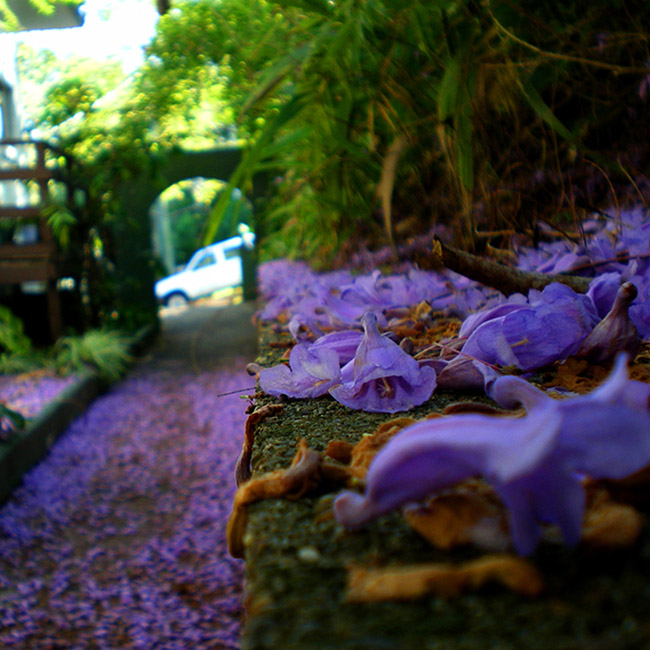
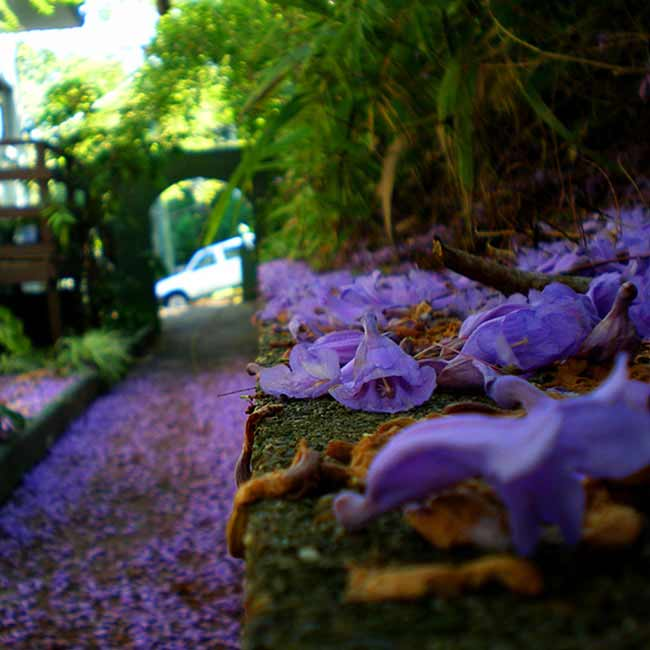
optimised all images to their smallest possible sizes just before the point of noticable degradation

diff --git a/js/modernizr.js b/js/modernizr.js
@@ -1,4 +1,4 @@
 /* Modernizr 2.6.2 (Custom Build) | MIT & BSD
- * Build: http://modernizr.com/download/#-fontface-backgroundsize-opacity-rgba-generatedcontent-cssgradients-csstransforms-csstransitions-canvas-shiv-cssclasses-teststyles-testprop-testallprops-prefixes-domprefixes-load
+ * Build: http://modernizr.com/download/#-fontface-backgroundsize-borderradius-boxshadow-opacity-cssanimations-csstransforms-csstransitions-canvas-shiv-cssclasses-teststyles-testprop-testallprops-prefixes-domprefixes-load
  */
-;window.Modernizr=function(a,b,c){function A(a){j.cssText=a}function B(a,b){return A(n.join(a+";")+(b||""))}function C(a,b){return typeof a===b}function D(a,b){return!!~(""+a).indexOf(b)}function E(a,b){for(var d in a){var e=a[d];if(!D(e,"-")&&j[e]!==c)return b=="pfx"?e:!0}return!1}function F(a,b,d){for(var e in a){var f=b[a[e]];if(f!==c)return d===!1?a[e]:C(f,"function")?f.bind(d||b):f}return!1}function G(a,b,c){var d=a.charAt(0).toUpperCase()+a.slice(1),e=(a+" "+p.join(d+" ")+d).split(" ");return C(b,"string")||C(b,"undefined")?E(e,b):(e=(a+" "+q.join(d+" ")+d).split(" "),F(e,b,c))}var d="2.6.2",e={},f=!0,g=b.documentElement,h="modernizr",i=b.createElement(h),j=i.style,k,l=":)",m={}.toString,n=" -webkit- -moz- -o- -ms- ".split(" "),o="Webkit Moz O ms",p=o.split(" "),q=o.toLowerCase().split(" "),r={},s={},t={},u=[],v=u.slice,w,x=function(a,c,d,e){var f,i,j,k,l=b.createElement("div"),m=b.body,n=m||b.createElement("body");if(parseInt(d,10))while(d--)j=b.createElement("div"),j.id=e?e[d]:h+(d+1),l.appendChild(j);return f=["&#173;",'<style id="s',h,'">',a,"</style>"].join(""),l.id=h,(m?l:n).innerHTML+=f,n.appendChild(l),m||(n.style.background="",n.style.overflow="hidden",k=g.style.overflow,g.style.overflow="hidden",g.appendChild(n)),i=c(l,a),m?l.parentNode.removeChild(l):(n.parentNode.removeChild(n),g.style.overflow=k),!!i},y={}.hasOwnProperty,z;!C(y,"undefined")&&!C(y.call,"undefined")?z=function(a,b){return y.call(a,b)}:z=function(a,b){return b in a&&C(a.constructor.prototype[b],"undefined")},Function.prototype.bind||(Function.prototype.bind=function(b){var c=this;if(typeof c!="function")throw new TypeError;var d=v.call(arguments,1),e=function(){if(this instanceof e){var a=function(){};a.prototype=c.prototype;var f=new a,g=c.apply(f,d.concat(v.call(arguments)));return Object(g)===g?g:f}return c.apply(b,d.concat(v.call(arguments)))};return e}),r.canvas=function(){var a=b.createElement("canvas");return!!a.getContext&&!!a.getContext("2d")},r.rgba=function(){return A("background-color:rgba(150,255,150,.5)"),D(j.backgroundColor,"rgba")},r.backgroundsize=function(){return G("backgroundSize")},r.opacity=function(){return B("opacity:.55"),/^0.55$/.test(j.opacity)},r.cssgradients=function(){var a="background-image:",b="gradient(linear,left top,right bottom,from(#9f9),to(white));",c="linear-gradient(left top,#9f9, white);";return A((a+"-webkit- ".split(" ").join(b+a)+n.join(c+a)).slice(0,-a.length)),D(j.backgroundImage,"gradient")},r.csstransforms=function(){return!!G("transform")},r.csstransitions=function(){return G("transition")},r.fontface=function(){var a;return x('@font-face {font-family:"font";src:url("https://")}',function(c,d){var e=b.getElementById("smodernizr"),f=e.sheet||e.styleSheet,g=f?f.cssRules&&f.cssRules[0]?f.cssRules[0].cssText:f.cssText||"":"";a=/src/i.test(g)&&g.indexOf(d.split(" ")[0])===0}),a},r.generatedcontent=function(){var a;return x(["#",h,"{font:0/0 a}#",h,':after{content:"',l,'";visibility:hidden;font:3px/1 a}'].join(""),function(b){a=b.offsetHeight>=3}),a};for(var H in r)z(r,H)&&(w=H.toLowerCase(),e[w]=r[H](),u.push((e[w]?"":"no-")+w));return e.addTest=function(a,b){if(typeof a=="object")for(var d in a)z(a,d)&&e.addTest(d,a[d]);else{a=a.toLowerCase();if(e[a]!==c)return e;b=typeof b=="function"?b():b,typeof f!="undefined"&&f&&(g.className+=" "+(b?"":"no-")+a),e[a]=b}return e},A(""),i=k=null,function(a,b){function k(a,b){var c=a.createElement("p"),d=a.getElementsByTagName("head")[0]||a.documentElement;return c.innerHTML="x<style>"+b+"</style>",d.insertBefore(c.lastChild,d.firstChild)}function l(){var a=r.elements;return typeof a=="string"?a.split(" "):a}function m(a){var b=i[a[g]];return b||(b={},h++,a[g]=h,i[h]=b),b}function n(a,c,f){c||(c=b);if(j)return c.createElement(a);f||(f=m(c));var g;return f.cache[a]?g=f.cache[a].cloneNode():e.test(a)?g=(f.cache[a]=f.createElem(a)).cloneNode():g=f.createElem(a),g.canHaveChildren&&!d.test(a)?f.frag.appendChild(g):g}function o(a,c){a||(a=b);if(j)return a.createDocumentFragment();c=c||m(a);var d=c.frag.cloneNode(),e=0,f=l(),g=f.length;for(;e<g;e++)d.createElement(f[e]);return d}function p(a,b){b.cache||(b.cache={},b.createElem=a.createElement,b.createFrag=a.createDocumentFragment,b.frag=b.createFrag()),a.createElement=function(c){return r.shivMethods?n(c,a,b):b.createElem(c)},a.createDocumentFragment=Function("h,f","return function(){var n=f.cloneNode(),c=n.createElement;h.shivMethods&&("+l().join().replace(/\w+/g,function(a){return b.createElem(a),b.frag.createElement(a),'c("'+a+'")'})+");return n}")(r,b.frag)}function q(a){a||(a=b);var c=m(a);return r.shivCSS&&!f&&!c.hasCSS&&(c.hasCSS=!!k(a,"article,aside,figcaption,figure,footer,header,hgroup,nav,section{display:block}mark{background:#FF0;color:#000}")),j||p(a,c),a}var c=a.html5||{},d=/^<|^(?:button|map|select|textarea|object|iframe|option|optgroup)$/i,e=/^(?:a|b|code|div|fieldset|h1|h2|h3|h4|h5|h6|i|label|li|ol|p|q|span|strong|style|table|tbody|td|th|tr|ul)$/i,f,g="_html5shiv",h=0,i={},j;(function(){try{var a=b.createElement("a");a.innerHTML="<xyz></xyz>",f="hidden"in a,j=a.childNodes.length==1||function(){b.createElement("a");var a=b.createDocumentFragment();return typeof a.cloneNode=="undefined"||typeof a.createDocumentFragment=="undefined"||typeof a.createElement=="undefined"}()}catch(c){f=!0,j=!0}})();var r={elements:c.elements||"abbr article aside audio bdi canvas data datalist details figcaption figure footer header hgroup mark meter nav output progress section summary time video",shivCSS:c.shivCSS!==!1,supportsUnknownElements:j,shivMethods:c.shivMethods!==!1,type:"default",shivDocument:q,createElement:n,createDocumentFragment:o};a.html5=r,q(b)}(this,b),e._version=d,e._prefixes=n,e._domPrefixes=q,e._cssomPrefixes=p,e.testProp=function(a){return E([a])},e.testAllProps=G,e.testStyles=x,g.className=g.className.replace(/(^|\s)no-js(\s|$)/,"$1$2")+(f?" js "+u.join(" "):""),e}(this,this.document),function(a,b,c){function d(a){return"[object Function]"==o.call(a)}function e(a){return"string"==typeof a}function f(){}function g(a){return!a||"loaded"==a||"complete"==a||"uninitialized"==a}function h(){var a=p.shift();q=1,a?a.t?m(function(){("c"==a.t?B.injectCss:B.injectJs)(a.s,0,a.a,a.x,a.e,1)},0):(a(),h()):q=0}function i(a,c,d,e,f,i,j){function k(b){if(!o&&g(l.readyState)&&(u.r=o=1,!q&&h(),l.onload=l.onreadystatechange=null,b)){"img"!=a&&m(function(){t.removeChild(l)},50);for(var d in y[c])y[c].hasOwnProperty(d)&&y[c][d].onload()}}var j=j||B.errorTimeout,l=b.createElement(a),o=0,r=0,u={t:d,s:c,e:f,a:i,x:j};1===y[c]&&(r=1,y[c]=[]),"object"==a?l.data=c:(l.src=c,l.type=a),l.width=l.height="0",l.onerror=l.onload=l.onreadystatechange=function(){k.call(this,r)},p.splice(e,0,u),"img"!=a&&(r||2===y[c]?(t.insertBefore(l,s?null:n),m(k,j)):y[c].push(l))}function j(a,b,c,d,f){return q=0,b=b||"j",e(a)?i("c"==b?v:u,a,b,this.i++,c,d,f):(p.splice(this.i++,0,a),1==p.length&&h()),this}function k(){var a=B;return a.loader={load:j,i:0},a}var l=b.documentElement,m=a.setTimeout,n=b.getElementsByTagName("script")[0],o={}.toString,p=[],q=0,r="MozAppearance"in l.style,s=r&&!!b.createRange().compareNode,t=s?l:n.parentNode,l=a.opera&&"[object Opera]"==o.call(a.opera),l=!!b.attachEvent&&!l,u=r?"object":l?"script":"img",v=l?"script":u,w=Array.isArray||function(a){return"[object Array]"==o.call(a)},x=[],y={},z={timeout:function(a,b){return b.length&&(a.timeout=b[0]),a}},A,B;B=function(a){function b(a){var a=a.split("!"),b=x.length,c=a.pop(),d=a.length,c={url:c,origUrl:c,prefixes:a},e,f,g;for(f=0;f<d;f++)g=a[f].split("="),(e=z[g.shift()])&&(c=e(c,g));for(f=0;f<b;f++)c=x[f](c);return c}function g(a,e,f,g,h){var i=b(a),j=i.autoCallback;i.url.split(".").pop().split("?").shift(),i.bypass||(e&&(e=d(e)?e:e[a]||e[g]||e[a.split("/").pop().split("?")[0]]),i.instead?i.instead(a,e,f,g,h):(y[i.url]?i.noexec=!0:y[i.url]=1,f.load(i.url,i.forceCSS||!i.forceJS&&"css"==i.url.split(".").pop().split("?").shift()?"c":c,i.noexec,i.attrs,i.timeout),(d(e)||d(j))&&f.load(function(){k(),e&&e(i.origUrl,h,g),j&&j(i.origUrl,h,g),y[i.url]=2})))}function h(a,b){function c(a,c){if(a){if(e(a))c||(j=function(){var a=[].slice.call(arguments);k.apply(this,a),l()}),g(a,j,b,0,h);else if(Object(a)===a)for(n in m=function(){var b=0,c;for(c in a)a.hasOwnProperty(c)&&b++;return b}(),a)a.hasOwnProperty(n)&&(!c&&!--m&&(d(j)?j=function(){var a=[].slice.call(arguments);k.apply(this,a),l()}:j[n]=function(a){return function(){var b=[].slice.call(arguments);a&&a.apply(this,b),l()}}(k[n])),g(a[n],j,b,n,h))}else!c&&l()}var h=!!a.test,i=a.load||a.both,j=a.callback||f,k=j,l=a.complete||f,m,n;c(h?a.yep:a.nope,!!i),i&&c(i)}var i,j,l=this.yepnope.loader;if(e(a))g(a,0,l,0);else if(w(a))for(i=0;i<a.length;i++)j=a[i],e(j)?g(j,0,l,0):w(j)?B(j):Object(j)===j&&h(j,l);else Object(a)===a&&h(a,l)},B.addPrefix=function(a,b){z[a]=b},B.addFilter=function(a){x.push(a)},B.errorTimeout=1e4,null==b.readyState&&b.addEventListener&&(b.readyState="loading",b.addEventListener("DOMContentLoaded",A=function(){b.removeEventListener("DOMContentLoaded",A,0),b.readyState="complete"},0)),a.yepnope=k(),a.yepnope.executeStack=h,a.yepnope.injectJs=function(a,c,d,e,i,j){var k=b.createElement("script"),l,o,e=e||B.errorTimeout;k.src=a;for(o in d)k.setAttribute(o,d[o]);c=j?h:c||f,k.onreadystatechange=k.onload=function(){!l&&g(k.readyState)&&(l=1,c(),k.onload=k.onreadystatechange=null)},m(function(){l||(l=1,c(1))},e),i?k.onload():n.parentNode.insertBefore(k,n)},a.yepnope.injectCss=function(a,c,d,e,g,i){var e=b.createElement("link"),j,c=i?h:c||f;e.href=a,e.rel="stylesheet",e.type="text/css";for(j in d)e.setAttribute(j,d[j]);g||(n.parentNode.insertBefore(e,n),m(c,0))}}(this,document),Modernizr.load=function(){yepnope.apply(window,[].slice.call(arguments,0))};
+;window.Modernizr=function(a,b,c){function z(a){j.cssText=a}function A(a,b){return z(m.join(a+";")+(b||""))}function B(a,b){return typeof a===b}function C(a,b){return!!~(""+a).indexOf(b)}function D(a,b){for(var d in a){var e=a[d];if(!C(e,"-")&&j[e]!==c)return b=="pfx"?e:!0}return!1}function E(a,b,d){for(var e in a){var f=b[a[e]];if(f!==c)return d===!1?a[e]:B(f,"function")?f.bind(d||b):f}return!1}function F(a,b,c){var d=a.charAt(0).toUpperCase()+a.slice(1),e=(a+" "+o.join(d+" ")+d).split(" ");return B(b,"string")||B(b,"undefined")?D(e,b):(e=(a+" "+p.join(d+" ")+d).split(" "),E(e,b,c))}var d="2.6.2",e={},f=!0,g=b.documentElement,h="modernizr",i=b.createElement(h),j=i.style,k,l={}.toString,m=" -webkit- -moz- -o- -ms- ".split(" "),n="Webkit Moz O ms",o=n.split(" "),p=n.toLowerCase().split(" "),q={},r={},s={},t=[],u=t.slice,v,w=function(a,c,d,e){var f,i,j,k,l=b.createElement("div"),m=b.body,n=m||b.createElement("body");if(parseInt(d,10))while(d--)j=b.createElement("div"),j.id=e?e[d]:h+(d+1),l.appendChild(j);return f=["&#173;",'<style id="s',h,'">',a,"</style>"].join(""),l.id=h,(m?l:n).innerHTML+=f,n.appendChild(l),m||(n.style.background="",n.style.overflow="hidden",k=g.style.overflow,g.style.overflow="hidden",g.appendChild(n)),i=c(l,a),m?l.parentNode.removeChild(l):(n.parentNode.removeChild(n),g.style.overflow=k),!!i},x={}.hasOwnProperty,y;!B(x,"undefined")&&!B(x.call,"undefined")?y=function(a,b){return x.call(a,b)}:y=function(a,b){return b in a&&B(a.constructor.prototype[b],"undefined")},Function.prototype.bind||(Function.prototype.bind=function(b){var c=this;if(typeof c!="function")throw new TypeError;var d=u.call(arguments,1),e=function(){if(this instanceof e){var a=function(){};a.prototype=c.prototype;var f=new a,g=c.apply(f,d.concat(u.call(arguments)));return Object(g)===g?g:f}return c.apply(b,d.concat(u.call(arguments)))};return e}),q.canvas=function(){var a=b.createElement("canvas");return!!a.getContext&&!!a.getContext("2d")},q.backgroundsize=function(){return F("backgroundSize")},q.borderradius=function(){return F("borderRadius")},q.boxshadow=function(){return F("boxShadow")},q.opacity=function(){return A("opacity:.55"),/^0.55$/.test(j.opacity)},q.cssanimations=function(){return F("animationName")},q.csstransforms=function(){return!!F("transform")},q.csstransitions=function(){return F("transition")},q.fontface=function(){var a;return w('@font-face {font-family:"font";src:url("https://")}',function(c,d){var e=b.getElementById("smodernizr"),f=e.sheet||e.styleSheet,g=f?f.cssRules&&f.cssRules[0]?f.cssRules[0].cssText:f.cssText||"":"";a=/src/i.test(g)&&g.indexOf(d.split(" ")[0])===0}),a};for(var G in q)y(q,G)&&(v=G.toLowerCase(),e[v]=q[G](),t.push((e[v]?"":"no-")+v));return e.addTest=function(a,b){if(typeof a=="object")for(var d in a)y(a,d)&&e.addTest(d,a[d]);else{a=a.toLowerCase();if(e[a]!==c)return e;b=typeof b=="function"?b():b,typeof f!="undefined"&&f&&(g.className+=" "+(b?"":"no-")+a),e[a]=b}return e},z(""),i=k=null,function(a,b){function k(a,b){var c=a.createElement("p"),d=a.getElementsByTagName("head")[0]||a.documentElement;return c.innerHTML="x<style>"+b+"</style>",d.insertBefore(c.lastChild,d.firstChild)}function l(){var a=r.elements;return typeof a=="string"?a.split(" "):a}function m(a){var b=i[a[g]];return b||(b={},h++,a[g]=h,i[h]=b),b}function n(a,c,f){c||(c=b);if(j)return c.createElement(a);f||(f=m(c));var g;return f.cache[a]?g=f.cache[a].cloneNode():e.test(a)?g=(f.cache[a]=f.createElem(a)).cloneNode():g=f.createElem(a),g.canHaveChildren&&!d.test(a)?f.frag.appendChild(g):g}function o(a,c){a||(a=b);if(j)return a.createDocumentFragment();c=c||m(a);var d=c.frag.cloneNode(),e=0,f=l(),g=f.length;for(;e<g;e++)d.createElement(f[e]);return d}function p(a,b){b.cache||(b.cache={},b.createElem=a.createElement,b.createFrag=a.createDocumentFragment,b.frag=b.createFrag()),a.createElement=function(c){return r.shivMethods?n(c,a,b):b.createElem(c)},a.createDocumentFragment=Function("h,f","return function(){var n=f.cloneNode(),c=n.createElement;h.shivMethods&&("+l().join().replace(/\w+/g,function(a){return b.createElem(a),b.frag.createElement(a),'c("'+a+'")'})+");return n}")(r,b.frag)}function q(a){a||(a=b);var c=m(a);return r.shivCSS&&!f&&!c.hasCSS&&(c.hasCSS=!!k(a,"article,aside,figcaption,figure,footer,header,hgroup,nav,section{display:block}mark{background:#FF0;color:#000}")),j||p(a,c),a}var c=a.html5||{},d=/^<|^(?:button|map|select|textarea|object|iframe|option|optgroup)$/i,e=/^(?:a|b|code|div|fieldset|h1|h2|h3|h4|h5|h6|i|label|li|ol|p|q|span|strong|style|table|tbody|td|th|tr|ul)$/i,f,g="_html5shiv",h=0,i={},j;(function(){try{var a=b.createElement("a");a.innerHTML="<xyz></xyz>",f="hidden"in a,j=a.childNodes.length==1||function(){b.createElement("a");var a=b.createDocumentFragment();return typeof a.cloneNode=="undefined"||typeof a.createDocumentFragment=="undefined"||typeof a.createElement=="undefined"}()}catch(c){f=!0,j=!0}})();var r={elements:c.elements||"abbr article aside audio bdi canvas data datalist details figcaption figure footer header hgroup mark meter nav output progress section summary time video",shivCSS:c.shivCSS!==!1,supportsUnknownElements:j,shivMethods:c.shivMethods!==!1,type:"default",shivDocument:q,createElement:n,createDocumentFragment:o};a.html5=r,q(b)}(this,b),e._version=d,e._prefixes=m,e._domPrefixes=p,e._cssomPrefixes=o,e.testProp=function(a){return D([a])},e.testAllProps=F,e.testStyles=w,g.className=g.className.replace(/(^|\s)no-js(\s|$)/,"$1$2")+(f?" js "+t.join(" "):""),e}(this,this.document),function(a,b,c){function d(a){return"[object Function]"==o.call(a)}function e(a){return"string"==typeof a}function f(){}function g(a){return!a||"loaded"==a||"complete"==a||"uninitialized"==a}function h(){var a=p.shift();q=1,a?a.t?m(function(){("c"==a.t?B.injectCss:B.injectJs)(a.s,0,a.a,a.x,a.e,1)},0):(a(),h()):q=0}function i(a,c,d,e,f,i,j){function k(b){if(!o&&g(l.readyState)&&(u.r=o=1,!q&&h(),l.onload=l.onreadystatechange=null,b)){"img"!=a&&m(function(){t.removeChild(l)},50);for(var d in y[c])y[c].hasOwnProperty(d)&&y[c][d].onload()}}var j=j||B.errorTimeout,l=b.createElement(a),o=0,r=0,u={t:d,s:c,e:f,a:i,x:j};1===y[c]&&(r=1,y[c]=[]),"object"==a?l.data=c:(l.src=c,l.type=a),l.width=l.height="0",l.onerror=l.onload=l.onreadystatechange=function(){k.call(this,r)},p.splice(e,0,u),"img"!=a&&(r||2===y[c]?(t.insertBefore(l,s?null:n),m(k,j)):y[c].push(l))}function j(a,b,c,d,f){return q=0,b=b||"j",e(a)?i("c"==b?v:u,a,b,this.i++,c,d,f):(p.splice(this.i++,0,a),1==p.length&&h()),this}function k(){var a=B;return a.loader={load:j,i:0},a}var l=b.documentElement,m=a.setTimeout,n=b.getElementsByTagName("script")[0],o={}.toString,p=[],q=0,r="MozAppearance"in l.style,s=r&&!!b.createRange().compareNode,t=s?l:n.parentNode,l=a.opera&&"[object Opera]"==o.call(a.opera),l=!!b.attachEvent&&!l,u=r?"object":l?"script":"img",v=l?"script":u,w=Array.isArray||function(a){return"[object Array]"==o.call(a)},x=[],y={},z={timeout:function(a,b){return b.length&&(a.timeout=b[0]),a}},A,B;B=function(a){function b(a){var a=a.split("!"),b=x.length,c=a.pop(),d=a.length,c={url:c,origUrl:c,prefixes:a},e,f,g;for(f=0;f<d;f++)g=a[f].split("="),(e=z[g.shift()])&&(c=e(c,g));for(f=0;f<b;f++)c=x[f](c);return c}function g(a,e,f,g,h){var i=b(a),j=i.autoCallback;i.url.split(".").pop().split("?").shift(),i.bypass||(e&&(e=d(e)?e:e[a]||e[g]||e[a.split("/").pop().split("?")[0]]),i.instead?i.instead(a,e,f,g,h):(y[i.url]?i.noexec=!0:y[i.url]=1,f.load(i.url,i.forceCSS||!i.forceJS&&"css"==i.url.split(".").pop().split("?").shift()?"c":c,i.noexec,i.attrs,i.timeout),(d(e)||d(j))&&f.load(function(){k(),e&&e(i.origUrl,h,g),j&&j(i.origUrl,h,g),y[i.url]=2})))}function h(a,b){function c(a,c){if(a){if(e(a))c||(j=function(){var a=[].slice.call(arguments);k.apply(this,a),l()}),g(a,j,b,0,h);else if(Object(a)===a)for(n in m=function(){var b=0,c;for(c in a)a.hasOwnProperty(c)&&b++;return b}(),a)a.hasOwnProperty(n)&&(!c&&!--m&&(d(j)?j=function(){var a=[].slice.call(arguments);k.apply(this,a),l()}:j[n]=function(a){return function(){var b=[].slice.call(arguments);a&&a.apply(this,b),l()}}(k[n])),g(a[n],j,b,n,h))}else!c&&l()}var h=!!a.test,i=a.load||a.both,j=a.callback||f,k=j,l=a.complete||f,m,n;c(h?a.yep:a.nope,!!i),i&&c(i)}var i,j,l=this.yepnope.loader;if(e(a))g(a,0,l,0);else if(w(a))for(i=0;i<a.length;i++)j=a[i],e(j)?g(j,0,l,0):w(j)?B(j):Object(j)===j&&h(j,l);else Object(a)===a&&h(a,l)},B.addPrefix=function(a,b){z[a]=b},B.addFilter=function(a){x.push(a)},B.errorTimeout=1e4,null==b.readyState&&b.addEventListener&&(b.readyState="loading",b.addEventListener("DOMContentLoaded",A=function(){b.removeEventListener("DOMContentLoaded",A,0),b.readyState="complete"},0)),a.yepnope=k(),a.yepnope.executeStack=h,a.yepnope.injectJs=function(a,c,d,e,i,j){var k=b.createElement("script"),l,o,e=e||B.errorTimeout;k.src=a;for(o in d)k.setAttribute(o,d[o]);c=j?h:c||f,k.onreadystatechange=k.onload=function(){!l&&g(k.readyState)&&(l=1,c(),k.onload=k.onreadystatechange=null)},m(function(){l||(l=1,c(1))},e),i?k.onload():n.parentNode.insertBefore(k,n)},a.yepnope.injectCss=function(a,c,d,e,g,i){var e=b.createElement("link"),j,c=i?h:c||f;e.href=a,e.rel="stylesheet",e.type="text/css";for(j in d)e.setAttribute(j,d[j]);g||(n.parentNode.insertBefore(e,n),m(c,0))}}(this,document),Modernizr.load=function(){yepnope.apply(window,[].slice.call(arguments,0))};

diff --git a/index.html b/index.html
@@ -15,6 +15,7 @@
 	<script type="text/javascript" src="js/jquery.scrollorama.js"></script>
 	<script type="text/javascript" src="js/jquery.scrolldeck.js"></script>
 	<script type="text/javascript" src="js/fresco.js"></script>
+	<script type="text/javascript" src="js/modernizr.js"></script>
 	<link rel="stylesheet" type="text/css" href="css/fresco/fresco.css" />
 	<link href="css/style.css" rel="stylesheet" type="text/css" />
 

diff --git a/css/style.css b/css/style.css
@@ -97,10 +97,12 @@ p{
 	width: 100%;
 	padding:20px 0;
 	margin:0;
+	white-space: nowrap;
 }
 
 .main-menu ul{
 	margin:0;
+	overflow: hidden;
 }
 
 .main-menu ul li{
@@ -110,6 +112,7 @@ p{
 	margin: 0;
 	color:#8f8f8f;
 	text-decoration: none;
+	
 }
 
 .main-menu ul li a{
